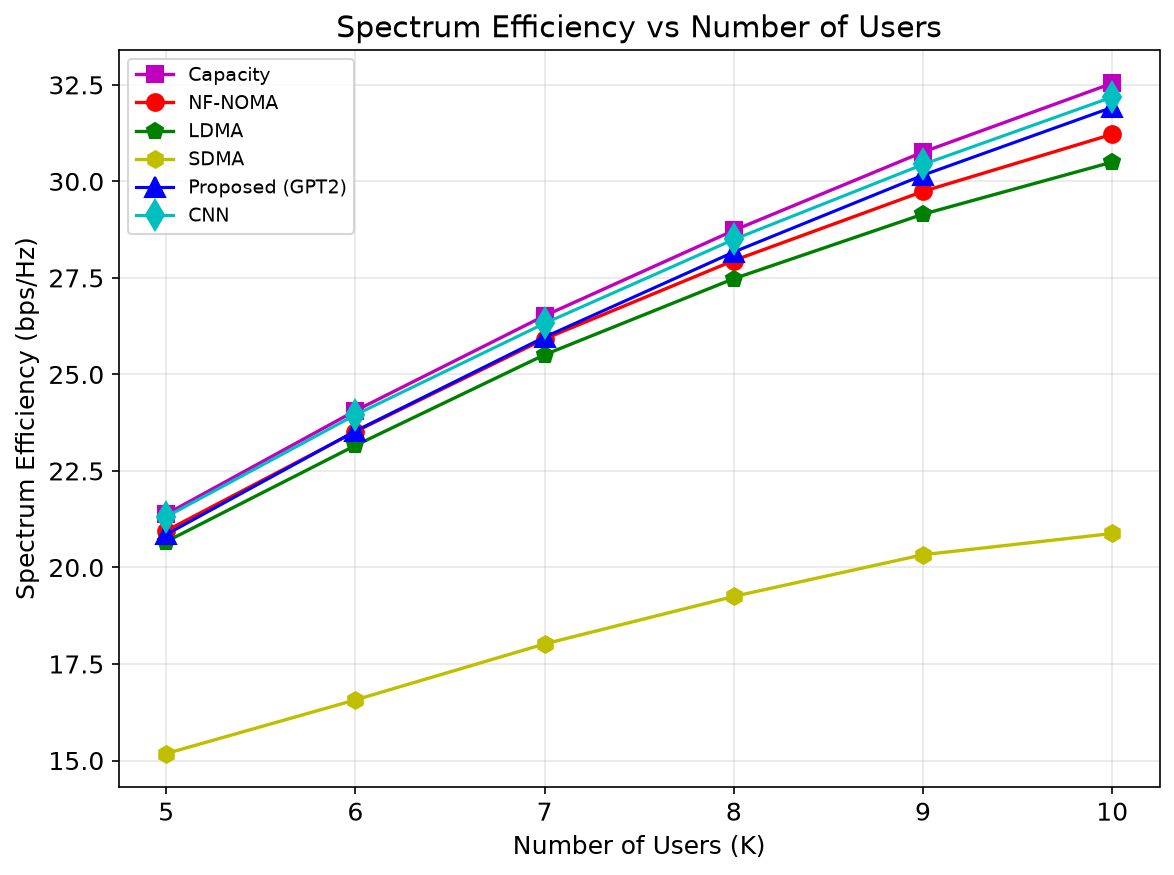
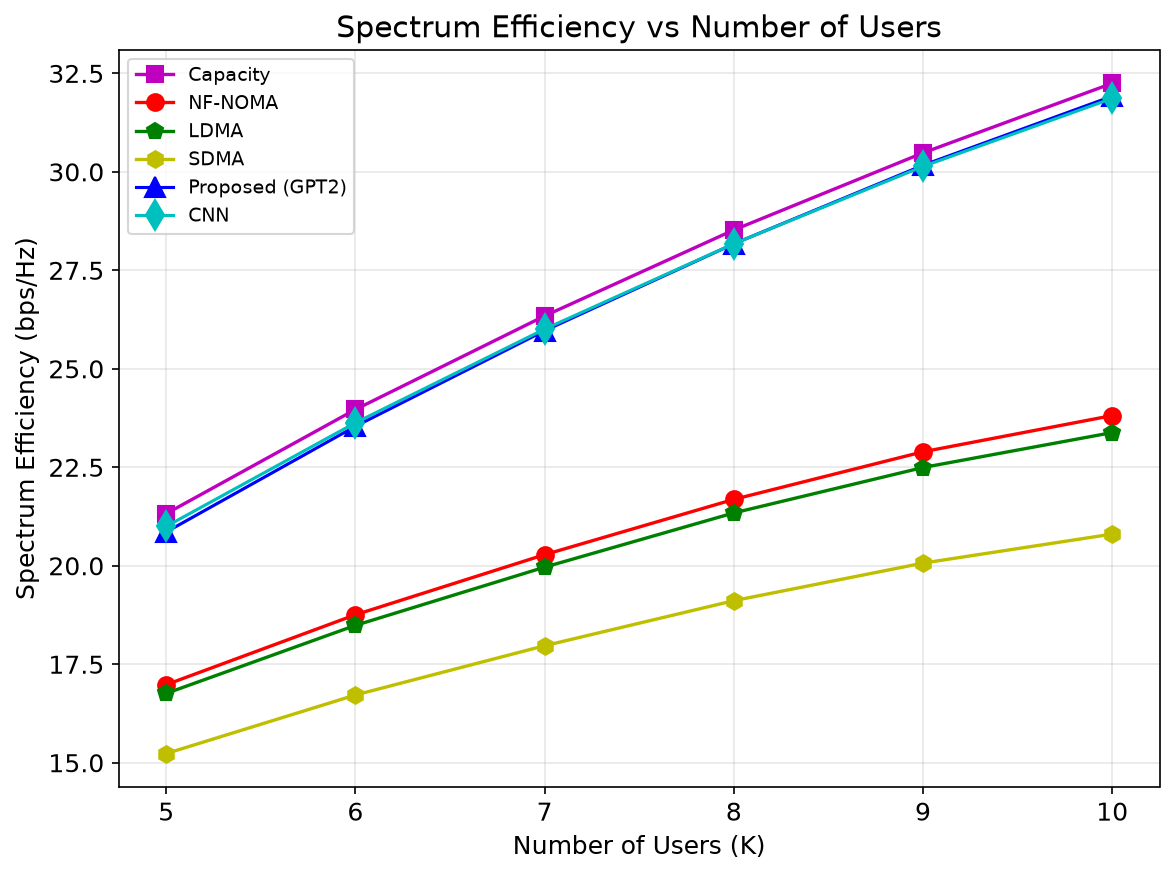
[基线] 修复Fig.8 Rmin惩罚错误，统一gamma=0.4
1. CNN gamma默认值从0.8改为0.4（匹配论文Fig.6-9设置）
2. eval_cnn.py gamma默认值从0.8改为0.4
3. eval_baselines.py 移除基线Rmin惩罚（论文要求基线为水平线）
4. 重新训练CNN（gamma=0.4）并更新评估结果
5. 更新所有图表

diff --git a/eval_baselines.py b/eval_baselines.py
@@ -187,7 +187,7 @@ def dpc_rate(H_complex, sigma2, P_total):
         G = H_b @ H_b.conj().T  # [K, K] Gram
 
         P_alloc = np.zeros(K)
-        n_steps = 500
+        n_steps = 100  # Reduced from 500 for faster evaluation
         delta = P_total / n_steps
 
         # Precompute effective gains for all users
@@ -513,6 +513,10 @@ def eval_baseline(loader, rate_fn, K_eval=None, sigma2=None, P_total=1.0):
 
 
 def eval_baseline_with_penalty(loader, rate_fn, K_eval=None, sigma2=None, P_total=1.0, rmin=0.0):
+    """
+    Baselines have NO Rmin constraint, so they return constant rate (horizontal line).
+    The rmin parameter is ignored for baselines per paper Fig.8.
+    """
     if sigma2 is None:
         sigma2 = 10 ** (-20 / 10)
     if K_eval is None:
@@ -522,10 +526,8 @@ def eval_baseline_with_penalty(loader, rate_fn, K_eval=None, sigma2=None, P_tota
         for data in loader:
             H_complex = _extract_H(data, K_eval)
             Rsum, single_rate = rate_fn(H_complex, sigma2, P_total)
-            penalty = F.relu(torch.tensor(rmin) - single_rate) * 10.0
-            penalty = torch.sum(penalty, dim=1)
-            adjusted = torch.mean(Rsum) - torch.mean(penalty)
-            rates.append(adjusted.item())
+            # No penalty for baselines - they have no Rmin constraint
+            rates.append(torch.mean(Rsum).item())
     return np.mean(rates)
 
 

diff --git a/eval_cnn.py b/eval_cnn.py
@@ -21,14 +21,14 @@ base_output = r"C:\Users\17859\Desktop\files\Grad_Project\LLM for LAE\Codes_v1\o
 
 parser = argparse.ArgumentParser()
 parser.add_argument('--quick', action='store_true', help='Skip timing measurement')
-parser.add_argument('--gamma', type=float, default=0.8,
-                    help='alpha_c constraint (must match training gamma). CNN default: 0.8')
+parser.add_argument('--gamma', type=float, default=0.4,
+                    help='alpha_c constraint (must match training gamma). Paper Fig.6/8/9 uses 0.4')
 args = parser.parse_args()
 
 
 # ===================== Model loading =====================#
-def find_latest_run(gamma=0.8):
-    if gamma == 0.8:
+def find_latest_run(gamma=0.4):
+    if gamma == 0.4:
         runs = sorted(glob.glob(os.path.join(base_output, "CNN_*")))
         valid = [r for r in runs
                  if glob.glob(os.path.join(r, '*.pth'))
@@ -44,7 +44,7 @@ def find_latest_run(gamma=0.8):
     return valid[-1]
 
 
-def build_model(run_dir=None, gamma=0.8):
+def build_model(run_dir=None, gamma=0.4):
     if run_dir is None:
         run_dir = find_latest_run(gamma)
     model = CNN_pre(N, K, gamma=gamma)

diff --git a/CNN.py b/CNN.py
@@ -19,7 +19,7 @@ N, K = 256, 10
 
 # ============= Args =============#
 parser = argparse.ArgumentParser()
-parser.add_argument('--gamma', type=float, default=0.8, help='Near-field power ratio constraint')
+parser.add_argument('--gamma', type=float, default=0.4, help='Near-field power ratio constraint (alpha_c). Paper Fig.6/8/9 uses 0.4')
 parser.add_argument('--gamma2', type=float, default=5.0, help='Classification loss weight')
 parser.add_argument('--epochs', type=int, default=100)
 parser.add_argument('--lr', type=float, default=0.0001)
@@ -30,9 +30,11 @@ args = parser.parse_args()
 data_root = r"C:\Users\17859\Desktop\files\Grad_Project\LLM for LAE\Codes_v1\Data_user.mat"
 base_output = r"C:\Users\17859\Desktop\files\Grad_Project\LLM for LAE\Codes_v1\output"
 
-# Output dir naming
-if args.gamma != 0.8:
+# Output dir naming (paper default: gamma=0.4, gamma2=5.0)
+if args.gamma != 0.4:
     dir_tag = f"CNN_gamma{args.gamma:.1f}"
+elif args.gamma2 != 5.0:
+    dir_tag = f"CNN_gamma2_{args.gamma2}"
 else:
     dir_tag = "CNN"
 output_dir = os.path.join(base_output, f"{dir_tag}_{datetime.datetime.now().strftime('%m.%d_%H-%M-%S')}")
